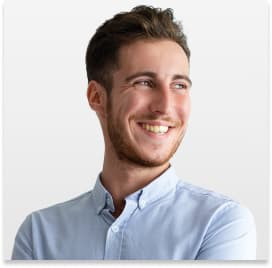
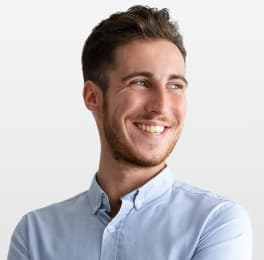
HomeworkFlaxBox3

diff --git a/css/styles.css b/css/styles.css
@@ -53,7 +53,7 @@ img {
 }
 
 .container {
-  width: 1128px;
+  width: 1158px;
   padding-right: 15px;
   padding-left: 15px;
   margin: 0 auto;}
@@ -263,6 +263,10 @@ img {
 .item-team {
   background-color: var(--bg-color-photo);
   width: calc((100% - 72px) / 4);
+  box-shadow: 0px 1px 6px rgba(46, 47, 66, 0.08), 
+  0px 1px 1px rgba(46, 47, 66, 0.16), 
+  0px 2px 1px rgba(46, 47, 66, 0.08);
+  border-radius: 0px 0px 4px 4px;
 }
 
 .title-team {
@@ -277,8 +281,8 @@ img {
 }
 
 .team-text {
-  margin-top: 32px;
-  margin-bottom: 32px;
+  padding-top: 32px;
+  padding-bottom: 32px;
 }
 
 .team-caption {
@@ -361,7 +365,8 @@ img {
 .list-card {
   display: flex;
   flex-wrap: wrap;
-  gap: 24px;
+  column-gap: 24px;
+  row-gap: 48px;
 }
 
 .row-cards {
@@ -371,6 +376,7 @@ img {
 .cards-container {
   background-color: var(--bg-color-photo);
   border: 1px solid var(--photo-border);
+  border-top: none;
   padding-top: 32px;
   padding-bottom: 32px;
   padding-left: 16px;
